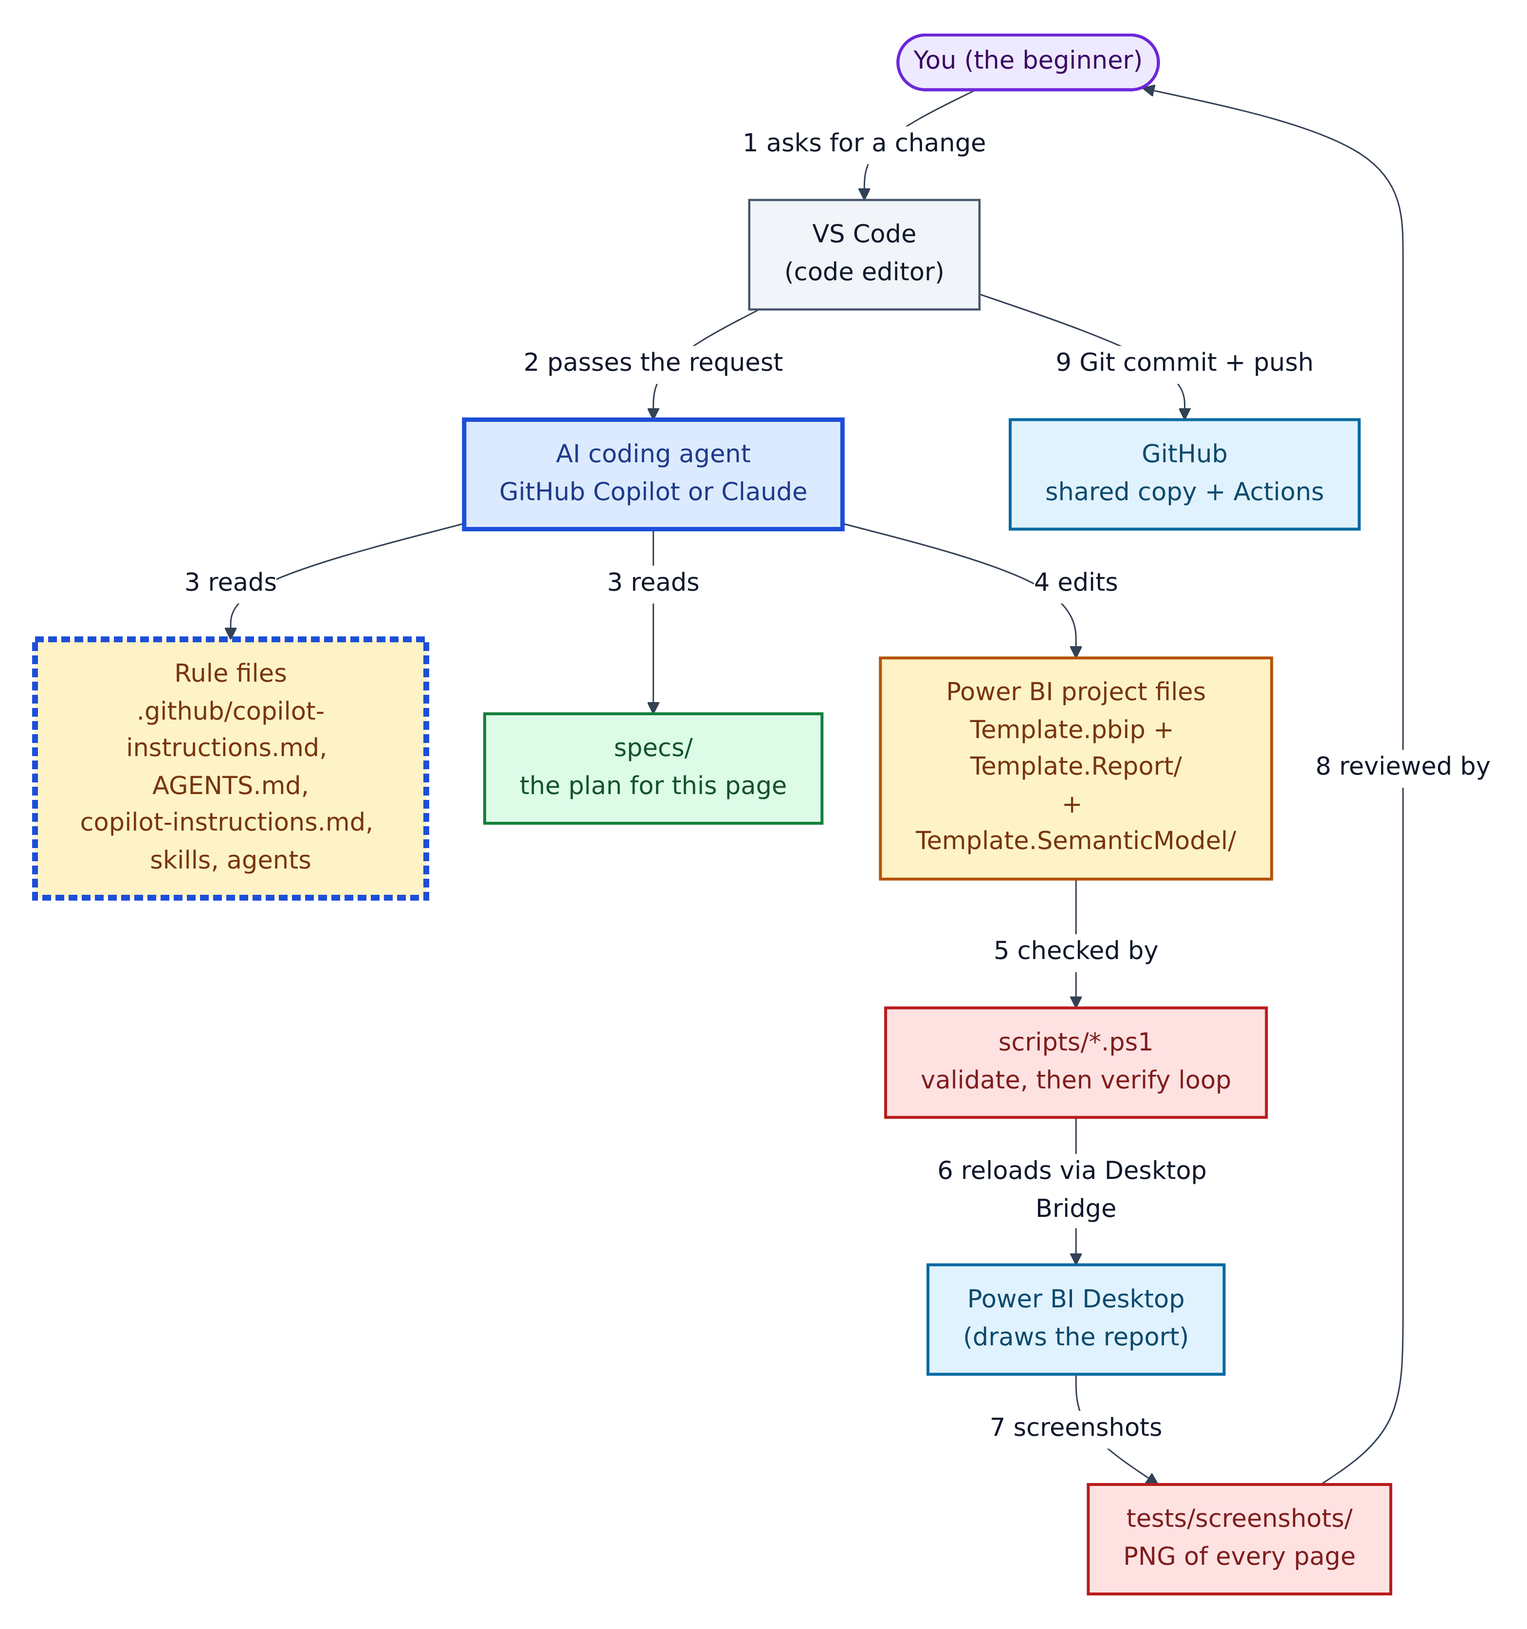
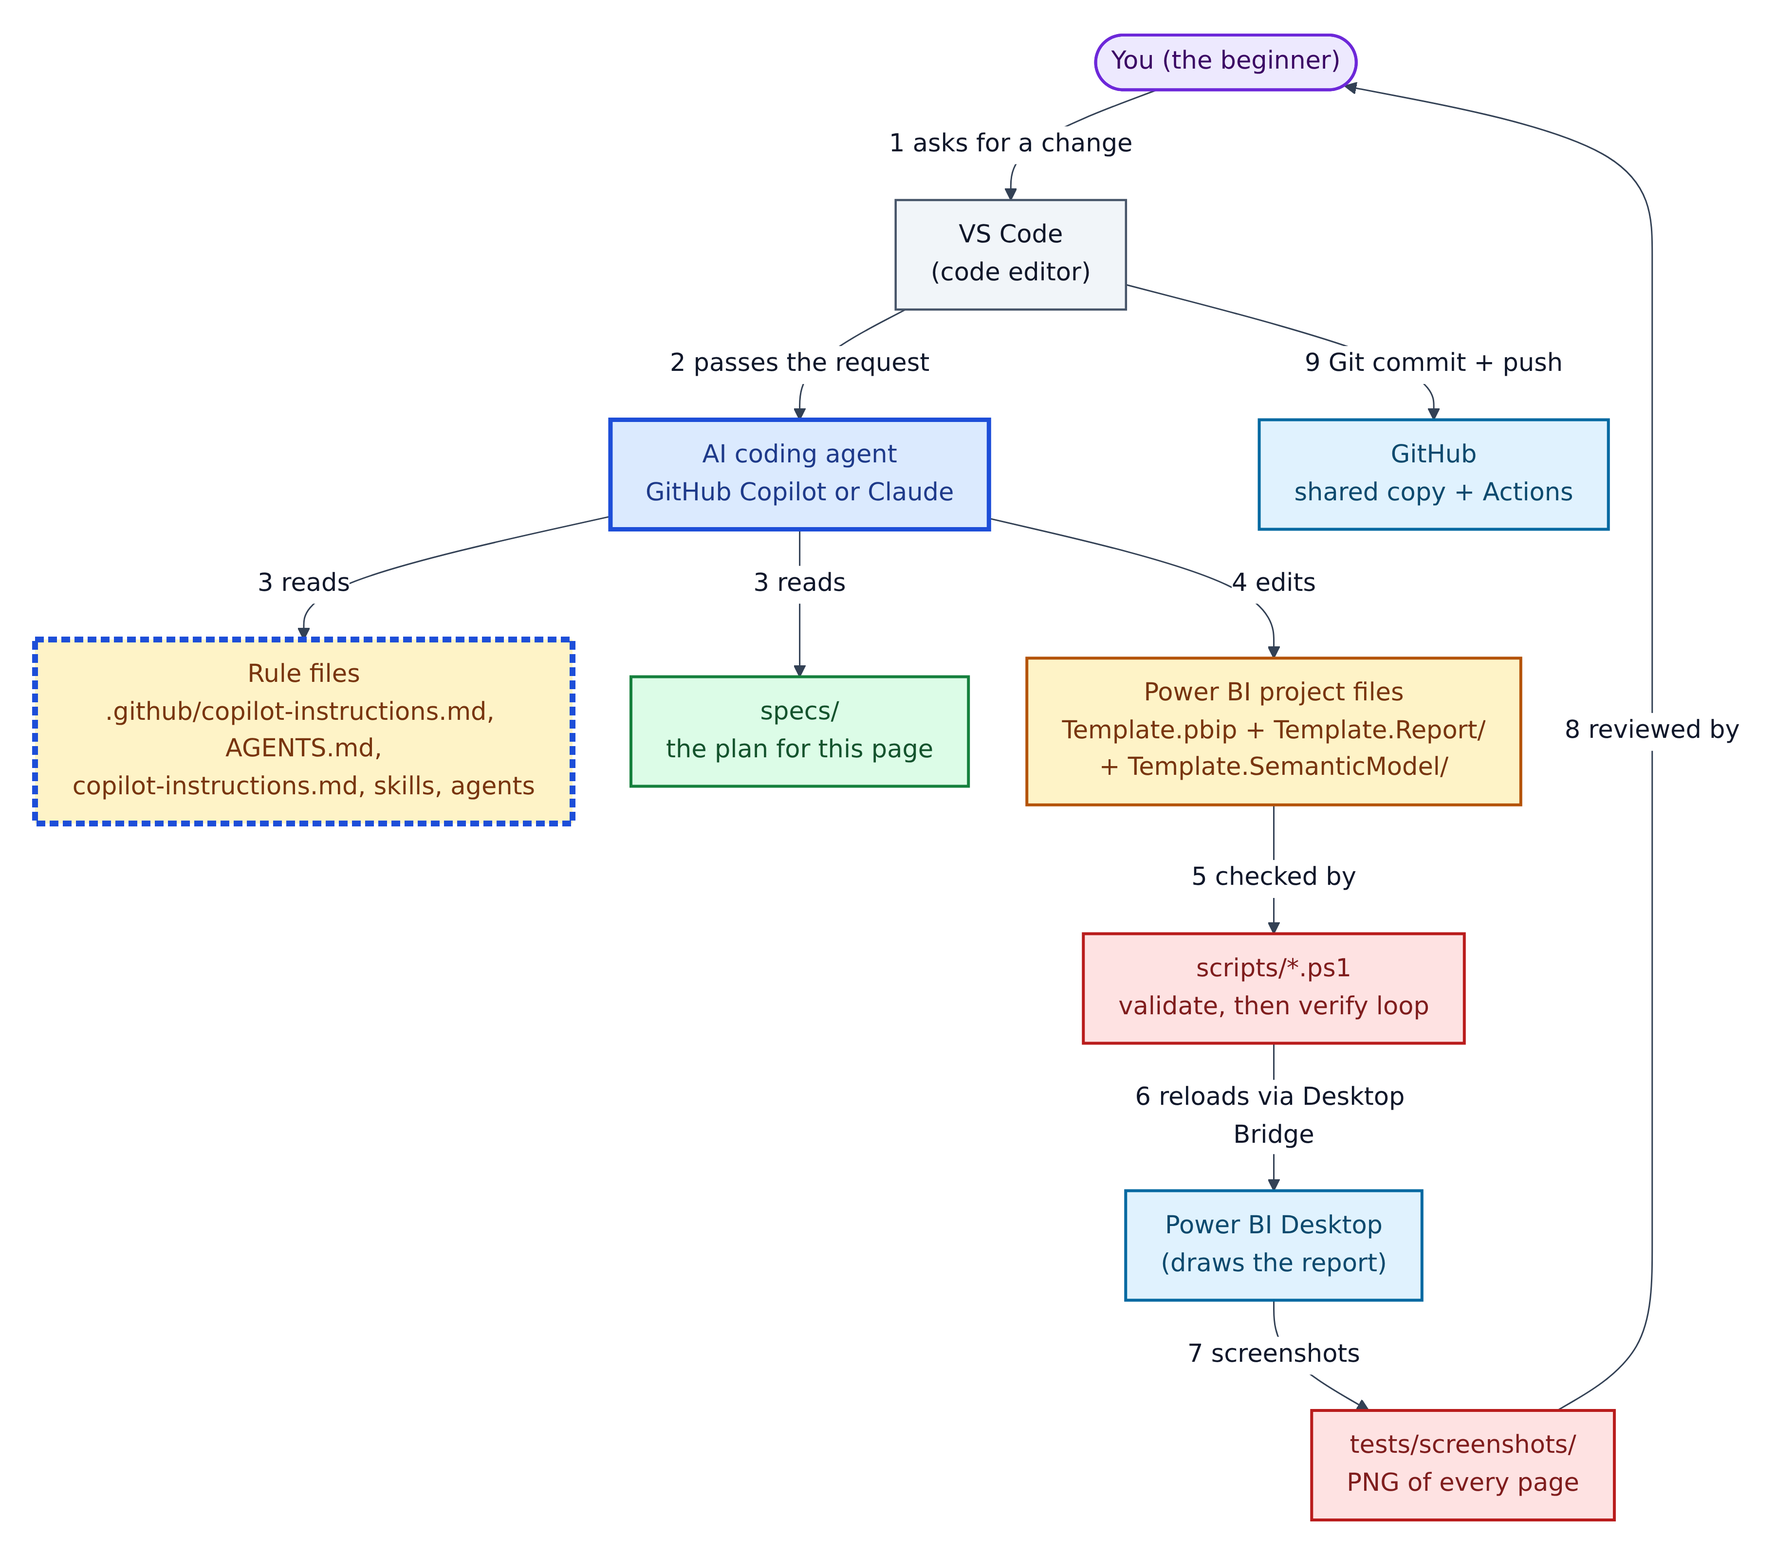
docs(guide): add section 02 Power BI and PBIP
Claude-Session: https://claude.ai/code/session_017HhPHV8BymqAtg8QnPKWP6

Changed region(s): [[0.0, 0.2169, 0.9681, 0.9915], [0.2811, 0.031, 0.7808, 0.4028]]

diff --git a/guide/images/src/02-2-report-tree.html b/guide/images/src/02-2-report-tree.html
@@ -1,0 +1,25 @@
+<html><head><style>body{margin:0;font-family:"DejaVu Sans",Arial,sans-serif;background:#fff;color:#0F172A}
+#c{display:inline-block;padding:18px}
+.cols{display:flex;gap:28px;align-items:stretch}
+.col{flex:1;border:2px solid #94A3B8;border-radius:12px;padding:14px;background:#F8FAFC}
+.col h4{margin:0 0 12px 0;font-size:19px;text-align:center}
+.step{border:2px solid;border-radius:8px;padding:9px 12px;margin:0 0 6px 0;font-size:15px;line-height:1.35}
+.arrow{text-align:center;color:#334155;font-size:18px;margin:0 0 6px 0}
+.g{background:#DCFCE7;border-color:#15803D;color:#14532D}
+.a{background:#FEF3C7;border-color:#B45309;color:#78350F}
+.r{background:#FEE2E2;border-color:#B91C1C;color:#7F1D1D}
+.n{background:#F1F5F9;border-color:#475569}
+.bad{background:#fff;border-color:#B91C1C;border-style:dashed;color:#7F1D1D}
+.ai{outline:4px dashed #1D4ED8;outline-offset:-2px}
+.mono{font-family:"DejaVu Sans Mono",monospace;font-size:14px}
+table{border-collapse:collapse;font-size:15px}
+td,th{border:1.5px solid #94A3B8;padding:8px 10px;vertical-align:top}
+th{background:#E2E8F0}
+</style></head><body><div id='c' style='width:1000px'><style>
+.tree{font-size:15px;line-height:1.25}
+.node{display:flex;align-items:center;margin:3px 0}
+.lab{border:2px solid;border-radius:6px;padding:3px 8px;font-family:"DejaVu Sans Mono",monospace;font-size:14px;white-space:nowrap}
+.desc{margin-left:10px;color:#334155;font-size:14px}
+.guide{color:#94A3B8;font-family:"DejaVu Sans Mono",monospace;white-space:pre;font-size:14px}
+.ai{outline:3px dashed #1D4ED8;outline-offset:1px}
+</style><div class=tree><div class=node><span class='lab a'>Template.Report/</span><span class=desc>The report (pages, visuals, themes)</span></div><div class=node><span class=guide>├── </span><span class='lab a'>definition/</span><span class=desc>Report definition (PBIR)</span></div><div class=node><span class=guide>│   ├── </span><span class='lab a'>pages/</span><span class=desc>One subfolder per page</span></div><div class=node><span class=guide>│   │   ├── </span><span class='lab a'>6e86f24a804ae4a905eb/</span><span class=desc>The single starter page</span></div><div class=node><span class=guide>│   │   │   └── </span><span class='lab a'>page.json</span><span class=desc>'Page 1', 1280x720, white</span></div><div class=node><span class=guide>│   │   └── </span><span class='lab a'>pages.json</span><span class=desc>Page order and active page</span></div><div class=node><span class=guide>│   ├── </span><span class='lab a'>report.json</span><span class=desc>Themes, resources, report settings</span></div><div class=node><span class=guide>│   └── </span><span class='lab r'>version.json</span><span class=desc>PBIR format version (exact)</span></div><div class=node><span class=guide>├── </span><span class='lab a'>StaticResources/</span><span class=desc>Images and themes</span></div><div class=node><span class=guide>│   ├── </span><span class='lab a'>RegisteredResources/</span><span class=desc>Your themes/SVGs (registered)</span></div><div class=node><span class=guide>│   │   └── </span><span class='lab a'>Theme.deployable.json</span><span class=desc>Live PGEColors theme copy</span></div><div class=node><span class=guide>│   └── </span><span class='lab r'>SharedResources/</span><span class=desc>Microsoft-supplied resources</span></div><div class=node><span class=guide>│       └── </span><span class='lab r'>BaseThemes/</span><span class=desc>Base themes</span></div><div class=node><span class=guide>│           └── </span><span class='lab r'>CY26SU02.json</span><span class=desc>Microsoft default base theme</span></div><div class=node><span class=guide>├── </span><span class='lab r'>.platform</span><span class=desc>Report type, name, ID for Fabric Git</span></div><div class=node><span class=guide>└── </span><span class='lab r'>definition.pbir</span><span class=desc>Links report to semantic model</span></div></div></div></body></html>

diff --git a/guide/images/src/02-3-model-tree.html b/guide/images/src/02-3-model-tree.html
@@ -1,0 +1,25 @@
+<html><head><style>body{margin:0;font-family:"DejaVu Sans",Arial,sans-serif;background:#fff;color:#0F172A}
+#c{display:inline-block;padding:18px}
+.cols{display:flex;gap:28px;align-items:stretch}
+.col{flex:1;border:2px solid #94A3B8;border-radius:12px;padding:14px;background:#F8FAFC}
+.col h4{margin:0 0 12px 0;font-size:19px;text-align:center}
+.step{border:2px solid;border-radius:8px;padding:9px 12px;margin:0 0 6px 0;font-size:15px;line-height:1.35}
+.arrow{text-align:center;color:#334155;font-size:18px;margin:0 0 6px 0}
+.g{background:#DCFCE7;border-color:#15803D;color:#14532D}
+.a{background:#FEF3C7;border-color:#B45309;color:#78350F}
+.r{background:#FEE2E2;border-color:#B91C1C;color:#7F1D1D}
+.n{background:#F1F5F9;border-color:#475569}
+.bad{background:#fff;border-color:#B91C1C;border-style:dashed;color:#7F1D1D}
+.ai{outline:4px dashed #1D4ED8;outline-offset:-2px}
+.mono{font-family:"DejaVu Sans Mono",monospace;font-size:14px}
+table{border-collapse:collapse;font-size:15px}
+td,th{border:1.5px solid #94A3B8;padding:8px 10px;vertical-align:top}
+th{background:#E2E8F0}
+</style></head><body><div id='c' style='width:1000px'><style>
+.tree{font-size:15px;line-height:1.25}
+.node{display:flex;align-items:center;margin:3px 0}
+.lab{border:2px solid;border-radius:6px;padding:3px 8px;font-family:"DejaVu Sans Mono",monospace;font-size:14px;white-space:nowrap}
+.desc{margin-left:10px;color:#334155;font-size:14px}
+.guide{color:#94A3B8;font-family:"DejaVu Sans Mono",monospace;white-space:pre;font-size:14px}
+.ai{outline:3px dashed #1D4ED8;outline-offset:1px}
+</style><div class=tree><div class=node><span class='lab a'>Template.SemanticModel/</span><span class=desc>The data model (TMDL)</span></div><div class=node><span class=guide>├── </span><span class='lab a'>definition/</span><span class=desc>TMDL model files</span></div><div class=node><span class=guide>│   ├── </span><span class='lab r'>cultures/</span><span class=desc>Language settings</span></div><div class=node><span class=guide>│   │   └── </span><span class='lab r'>en-US.tmdl</span><span class=desc>English (US) culture</span></div><div class=node><span class=guide>│   ├── </span><span class='lab r'>database.tmdl</span><span class=desc>Compatibility level 1600</span></div><div class=node><span class=guide>│   └── </span><span class='lab a'>model.tmdl</span><span class=desc>Model settings; tables get ref'd here</span></div><div class=node><span class=guide>├── </span><span class='lab r'>.platform</span><span class=desc>Model type, name, ID for Fabric Git</span></div><div class=node><span class=guide>├── </span><span class='lab r'>definition.pbism</span><span class=desc>Semantic model format settings</span></div><div class=node><span class=guide>└── </span><span class='lab a'>diagramLayout.json</span><span class=desc>Model diagram positions (empty)</span></div></div></div></body></html>

diff --git a/guide/images/src/02-1-pbix-vs-pbip.html b/guide/images/src/02-1-pbix-vs-pbip.html
@@ -1,0 +1,33 @@
+<html><head><style>body{margin:0;font-family:"DejaVu Sans",Arial,sans-serif;background:#fff;color:#0F172A}
+#c{display:inline-block;padding:18px}
+.cols{display:flex;gap:28px;align-items:stretch}
+.col{flex:1;border:2px solid #94A3B8;border-radius:12px;padding:14px;background:#F8FAFC}
+.col h4{margin:0 0 12px 0;font-size:19px;text-align:center}
+.step{border:2px solid;border-radius:8px;padding:9px 12px;margin:0 0 6px 0;font-size:15px;line-height:1.35}
+.arrow{text-align:center;color:#334155;font-size:18px;margin:0 0 6px 0}
+.g{background:#DCFCE7;border-color:#15803D;color:#14532D}
+.a{background:#FEF3C7;border-color:#B45309;color:#78350F}
+.r{background:#FEE2E2;border-color:#B91C1C;color:#7F1D1D}
+.n{background:#F1F5F9;border-color:#475569}
+.bad{background:#fff;border-color:#B91C1C;border-style:dashed;color:#7F1D1D}
+.ai{outline:4px dashed #1D4ED8;outline-offset:-2px}
+.mono{font-family:"DejaVu Sans Mono",monospace;font-size:14px}
+table{border-collapse:collapse;font-size:15px}
+td,th{border:1.5px solid #94A3B8;padding:8px 10px;vertical-align:top}
+th{background:#E2E8F0}
+</style></head><body><div id='c' style='width:1100px'><div class=cols>
+<div class=col><h4>Old way: one .pbix file</h4>
+<div class='step bad mono'>Sales.pbix</div>
+<div class='step n'>One compressed file (like a .zip). Report, data model and data are all sealed inside.</div>
+<div class='step bad'>Text editors and AI agents cannot read it.</div>
+<div class='step bad'>Git sees only &quot;the file changed&quot;, never <i>what</i> changed.</div>
+<div class='step bad'>Two people editing it = one person&#39;s work is lost.</div>
+</div>
+<div class=col><h4>This template: a .pbip project folder</h4>
+<div class='step r mono'>Template.pbip &nbsp;&larr; the file you open</div>
+<div class='step a mono'>Template.Report/ &nbsp;&larr; pages and visuals as JSON text</div>
+<div class='step a mono'>Template.SemanticModel/ &nbsp;&larr; tables and measures as TMDL text</div>
+<div class='step g'>Every part is a small, readable text file.</div>
+<div class='step g'>Git shows the exact line that changed; people can review and merge.</div>
+<div class='step g ai'>An AI agent can read and edit the files, following the rule files.</div>
+</div></div></div></body></html>

diff --git a/guide/02-power-bi-and-pbip.md b/guide/02-power-bi-and-pbip.md
@@ -1,0 +1,110 @@
+# 02. Power BI and the Power BI Project format (.pbip)
+
+![One .pbix file compared with a .pbip project folder](images/02-1-pbix-vs-pbip.png)
+
+**Figure 2.1 — A sealed box vs. a labelled filing cabinet.** On the left, the traditional single `.pbix` file. On the right, the project folder this repository uses.
+
+Walkthrough of Figure 2.1:
+
+1. **`.pbix`** is Power BI's classic file type: one compressed file that contains the report, the data model and a copy of the data. It is like a sealed box: you can only open it with Power BI Desktop.
+2. Because it is sealed, **text editors and AI agents cannot read it**, and Git (Section 03) can only say "the box changed".
+3. **`.pbip`** stands for **Power BI Project**. When Power BI Desktop saves as a project, Microsoft's documentation says it saves "report and semantic model item definitions … as individual plain text files" in a folder. It is like a filing cabinet with a labelled drawer for every part.
+4. **`Template.pbip`** is a small text file that acts as the cabinet's front door: it is the file you double-click.
+5. **`Template.Report/`** holds the report pages and visuals as **JSON** files. JSON (JavaScript Object Notation) is a common text format made of named values inside curly braces, like `"displayName": "Page 1"`.
+6. **`Template.SemanticModel/`** holds the data model as **TMDL** files. TMDL (Tabular Model Definition Language) is a text format for data models that uses indentation (tabs) instead of braces, so it reads more like an outline.
+7. The result: Git shows exactly what changed, people can review changes, and an AI agent can safely edit the files (blue outline).
+
+---
+
+## Key ideas in plain English
+
+| Term | Plain meaning | Real-world comparison |
+|---|---|---|
+| **Power BI Desktop** | Microsoft's free Windows app for building reports | The workshop where the furniture is built |
+| **Report** | The pages of charts people look at | The plated meal |
+| **Page** | One screen of the report | One page of a magazine |
+| **Visual** | One chart, table, card or image on a page | One photo on that page |
+| **Semantic model** | The tables, relationships and calculations behind the report | The kitchen and pantry |
+| **Table** | Rows and columns of data, like a spreadsheet tab | One shelf in the pantry |
+| **Relationship** | A link between two tables, e.g. each sale belongs to one date | The label that says which shelf goes with which recipe |
+| **Measure** | A named calculation, e.g. "Total Sales", written in DAX | A recipe |
+| **DAX** | Data Analysis Expressions: Power BI's formula language | The cooking language the recipes are written in |
+| **Theme** | A JSON file of colours and fonts | The restaurant's tableware and colour scheme |
+| **PBIR** | Power BI enhanced report format: the report saved as many JSON files in a `definition/` folder. Microsoft says it is now the default report format | The labelled drawers of the report cabinet |
+| **TMDL** | The model saved as indented text files | A neatly indented recipe book |
+
+## The report folder
+
+![Template.Report folder tree](images/02-2-report-tree.png)
+
+**Figure 2.2 — Inside `Template.Report/`.** Each label is coloured with its safety flag from the legend in Section 00.
+
+Walkthrough of Figure 2.2:
+
+1. **`definition/`** is the PBIR report definition.
+2. **`pages/`** has one subfolder per page. The only page today has the machine-made name `6e86f24a804ae4a905eb`; its `page.json` gives it the human name "Page 1", a size of 1280 × 720 pixels and a white surround.
+3. **`pages.json`** lists the page order and which page opens first.
+4. **`report.json`** registers the two themes and sets report-wide options such as "allow export of summarised data". It is Amber: you will edit it when you add a theme or background image.
+5. **`version.json`** must contain exactly the content shown in `copilot-instructions.md`. A wrong value stops the report opening, so it is Red.
+6. **`StaticResources/RegisteredResources/`** is where *your* themes and SVG background images go. Each one must also be listed in `report.json`.
+7. **`StaticResources/SharedResources/BaseThemes/CY26SU02.json`** is Microsoft's base theme. Leave it alone.
+8. **`.platform`** is an ID card used by **Microsoft Fabric** (Microsoft's online analytics platform) when the project is synced with Git. Microsoft calls it a "Fabric platform file". Do not change it.
+9. **`definition.pbir`** points the report at its semantic model (see Figure 2.4).
+
+As you build, more files appear: `pages/<page-id>/visuals/<visual-id>/visual.json` for each visual, and `bookmarks/` if you use bookmarks.
+
+## The semantic model folder
+
+![Template.SemanticModel folder tree](images/02-3-model-tree.png)
+
+**Figure 2.3 — Inside `Template.SemanticModel/`.**
+
+Walkthrough of Figure 2.3:
+
+1. **`definition/database.tmdl`** sets the compatibility level (1600), a technical version number for the model engine. Red.
+2. **`definition/model.tmdl`** holds model-wide settings (culture `en-US`, the "DevMode" tooling annotation, time-intelligence setting). When tables are added, each one gets a `ref table` line here. Amber.
+3. **`definition/cultures/en-US.tmdl`** declares the English (US) language. Red.
+4. **`diagramLayout.json`** remembers where tables sit in Power BI's model diagram. Empty today. Amber.
+5. **`definition.pbism`** declares the semantic model format version (4.2). Red.
+6. **`.platform`** is the model's Fabric ID card. Red.
+
+Later, each table becomes its own file: `definition/tables/<TableName>.tmdl`, including the special tables `_Measures` and `_SVG_Measures` required by the guardrails.
+
+## How the files find each other
+
+![The pointer chain from Template.pbip to the model](images/02-4-pointer-chain.png)
+
+**Figure 2.4 — The pointer chain.** Like a treasure hunt: each file holds the clue to the next.
+
+Walkthrough of Figure 2.4:
+
+1. You open **`Template.pbip`** in Power BI Desktop.
+2. Inside it, `artifacts > report > path` says the report lives in **`Template.Report`**.
+3. The report's **`definition.pbir`** says `datasetReference > byPath > path = ../Template.SemanticModel`. The `../` means "go up one folder".
+4. Power BI loads the **semantic model**: `definition.pbism` plus the `.tmdl` files.
+5. **`report.json`** lists the themes and other resource packages.
+6. Those resources must exist on disk under **`StaticResources/`**. The script `validate-pbip.ps1` checks this.
+7. **`pages.json`** gives the page order.
+8. Each **`page.json`** (and later each `visual.json`) describes one page or visual. Visuals ask the model for data by table name and column or measure name. If a name is misspelled, the visual breaks. `Test-PbipSemantics.ps1` checks many of these links (Section 09).
+
+## Model vs. report: the kitchen and the meal
+
+![How data flows from sources to visuals](images/02-5-model-vs-report.png)
+
+**Figure 2.5 — From data to picture.**
+
+Walkthrough of Figure 2.5:
+
+1. **Data sources** (a database, Excel, CSV files) hold the raw data.
+2. **Power Query** (Power BI's data-loading tool) loads them into **tables** in the semantic model.
+3. **Relationships** join the tables. This template's checklists prefer a **star schema**: Microsoft describes *fact* tables as storing "observations or events" (sales, orders) and *dimension* tables as describing "business entities" (products, dates, customers).
+4. **Measures** written in DAX turn rows into answers, like "Total Sales" or "Sales YoY %". Business measures live in `_Measures`; measures that draw picture cards live in `_SVG_Measures`.
+5. **Visuals** on pages show those answers.
+6. The **theme** styles every visual with the team's colours and fonts.
+
+## What this template expects you to know about the format
+
+- **Never edit while Desktop has the file open** unless a script tells you to reload. Desktop can save over your edits.
+- **Save `.tmdl` files as UTF-8 without a BOM.** A BOM (byte-order mark) is an invisible marker some programs add at the start of a file. Power BI's TMDL reader rejects it. Windows PowerShell's `Set-Content -Encoding UTF8` adds one, so the rulebook tells you to write files with Python instead.
+- **No `//` comments in TMDL.** Use `///` description lines above a measure instead; those become the measure's description.
+- **Desktop keeps two local files out of Git:** `.pbi/localSettings.json` and `.pbi/cache.abf` (the data cache). This repository's `.gitignore` excludes them, plus `.pbi/editorSettings.json`.
